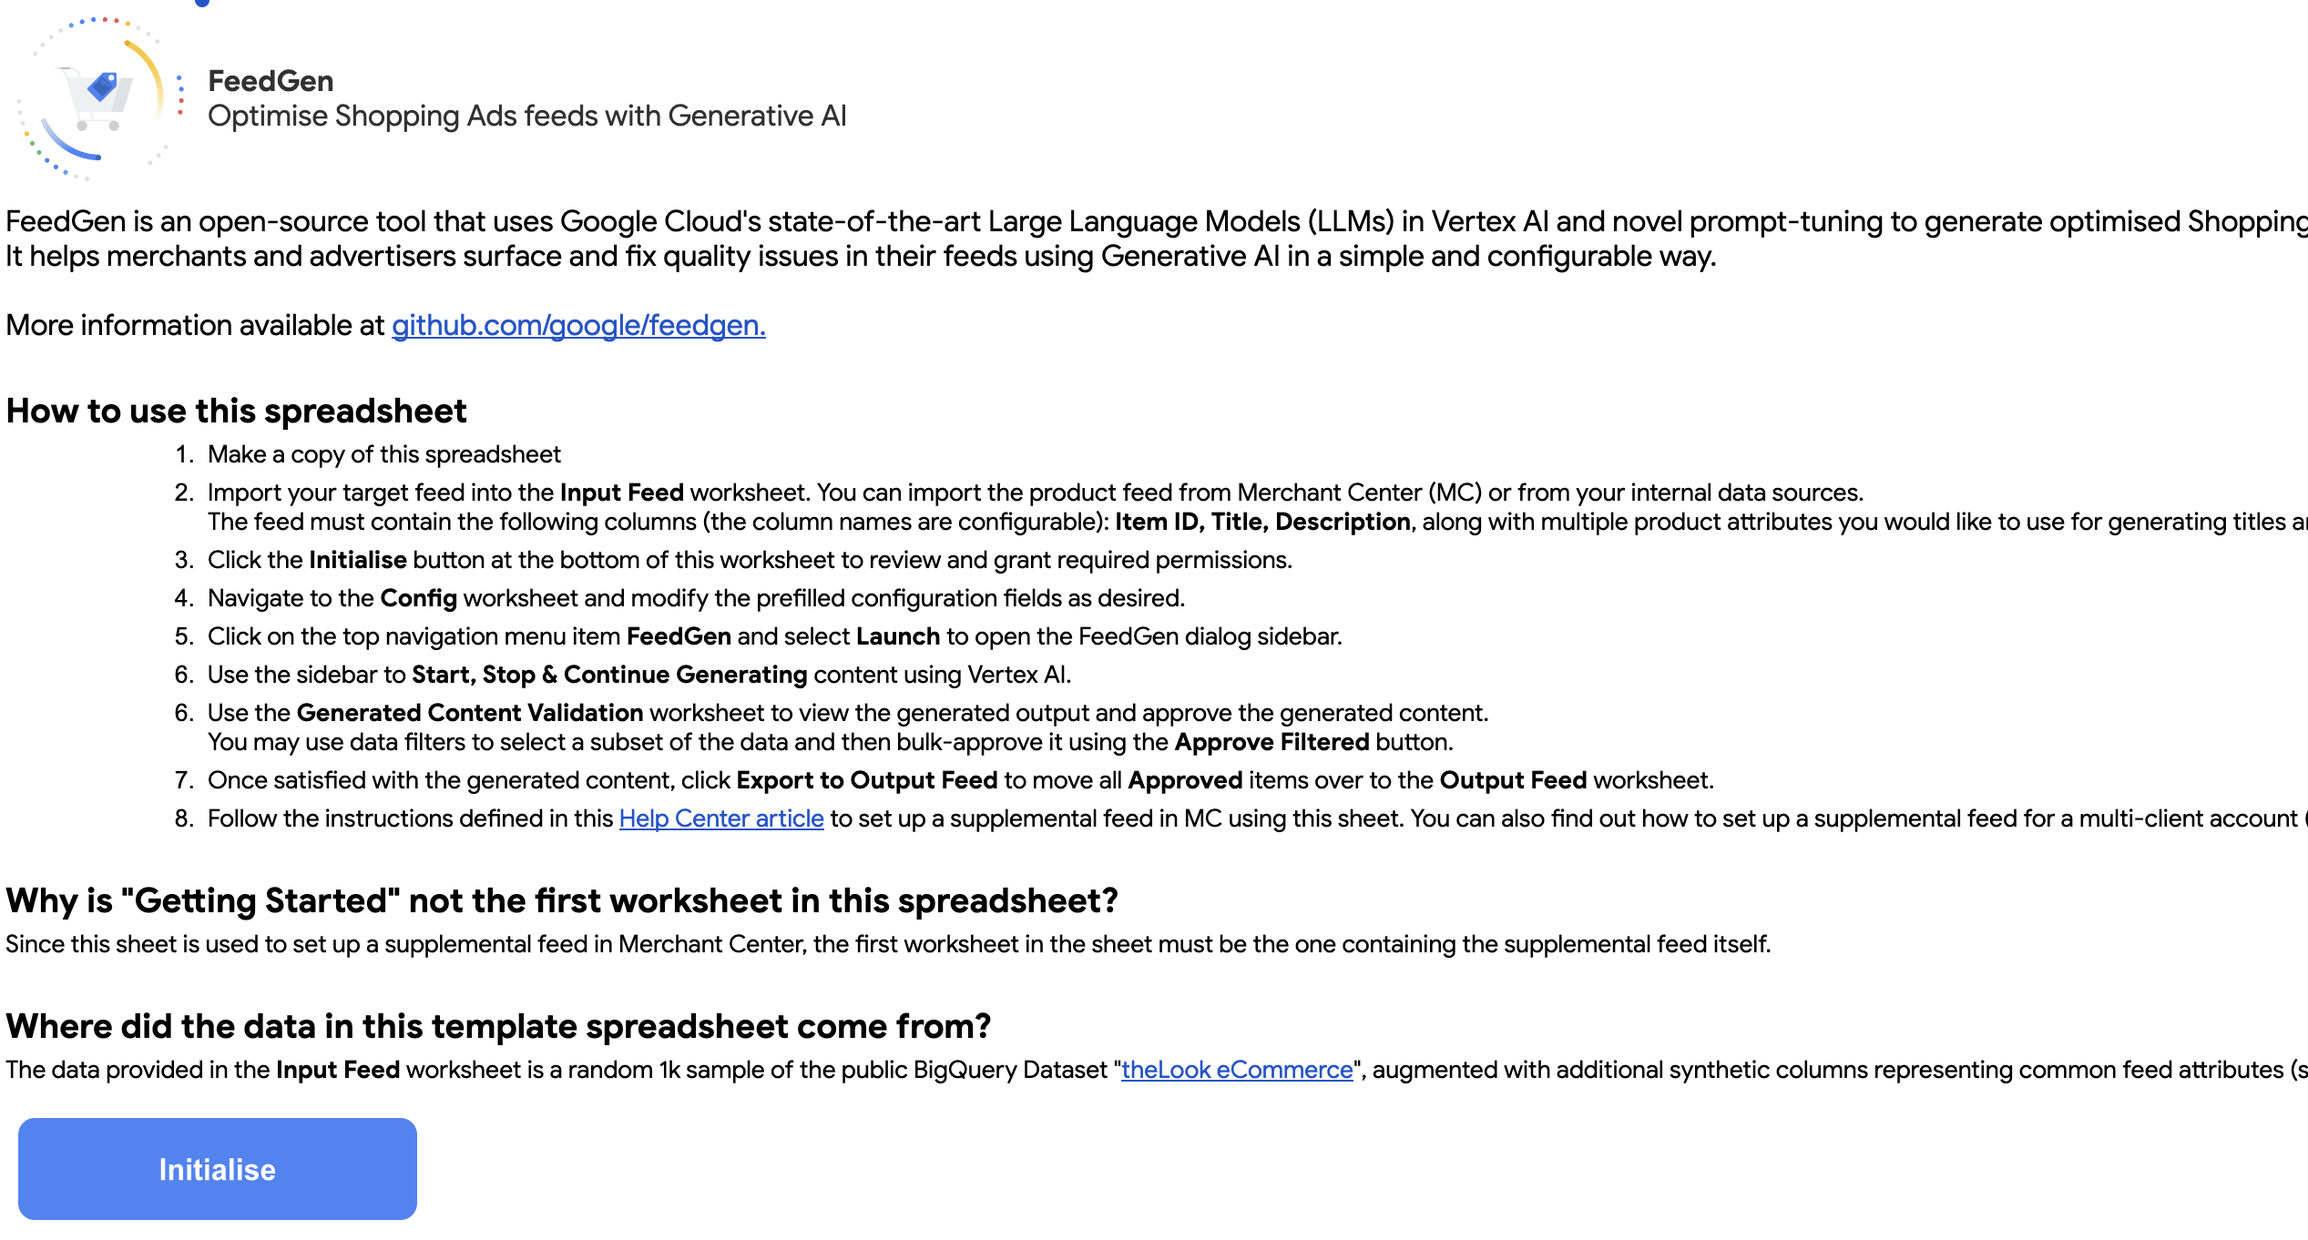
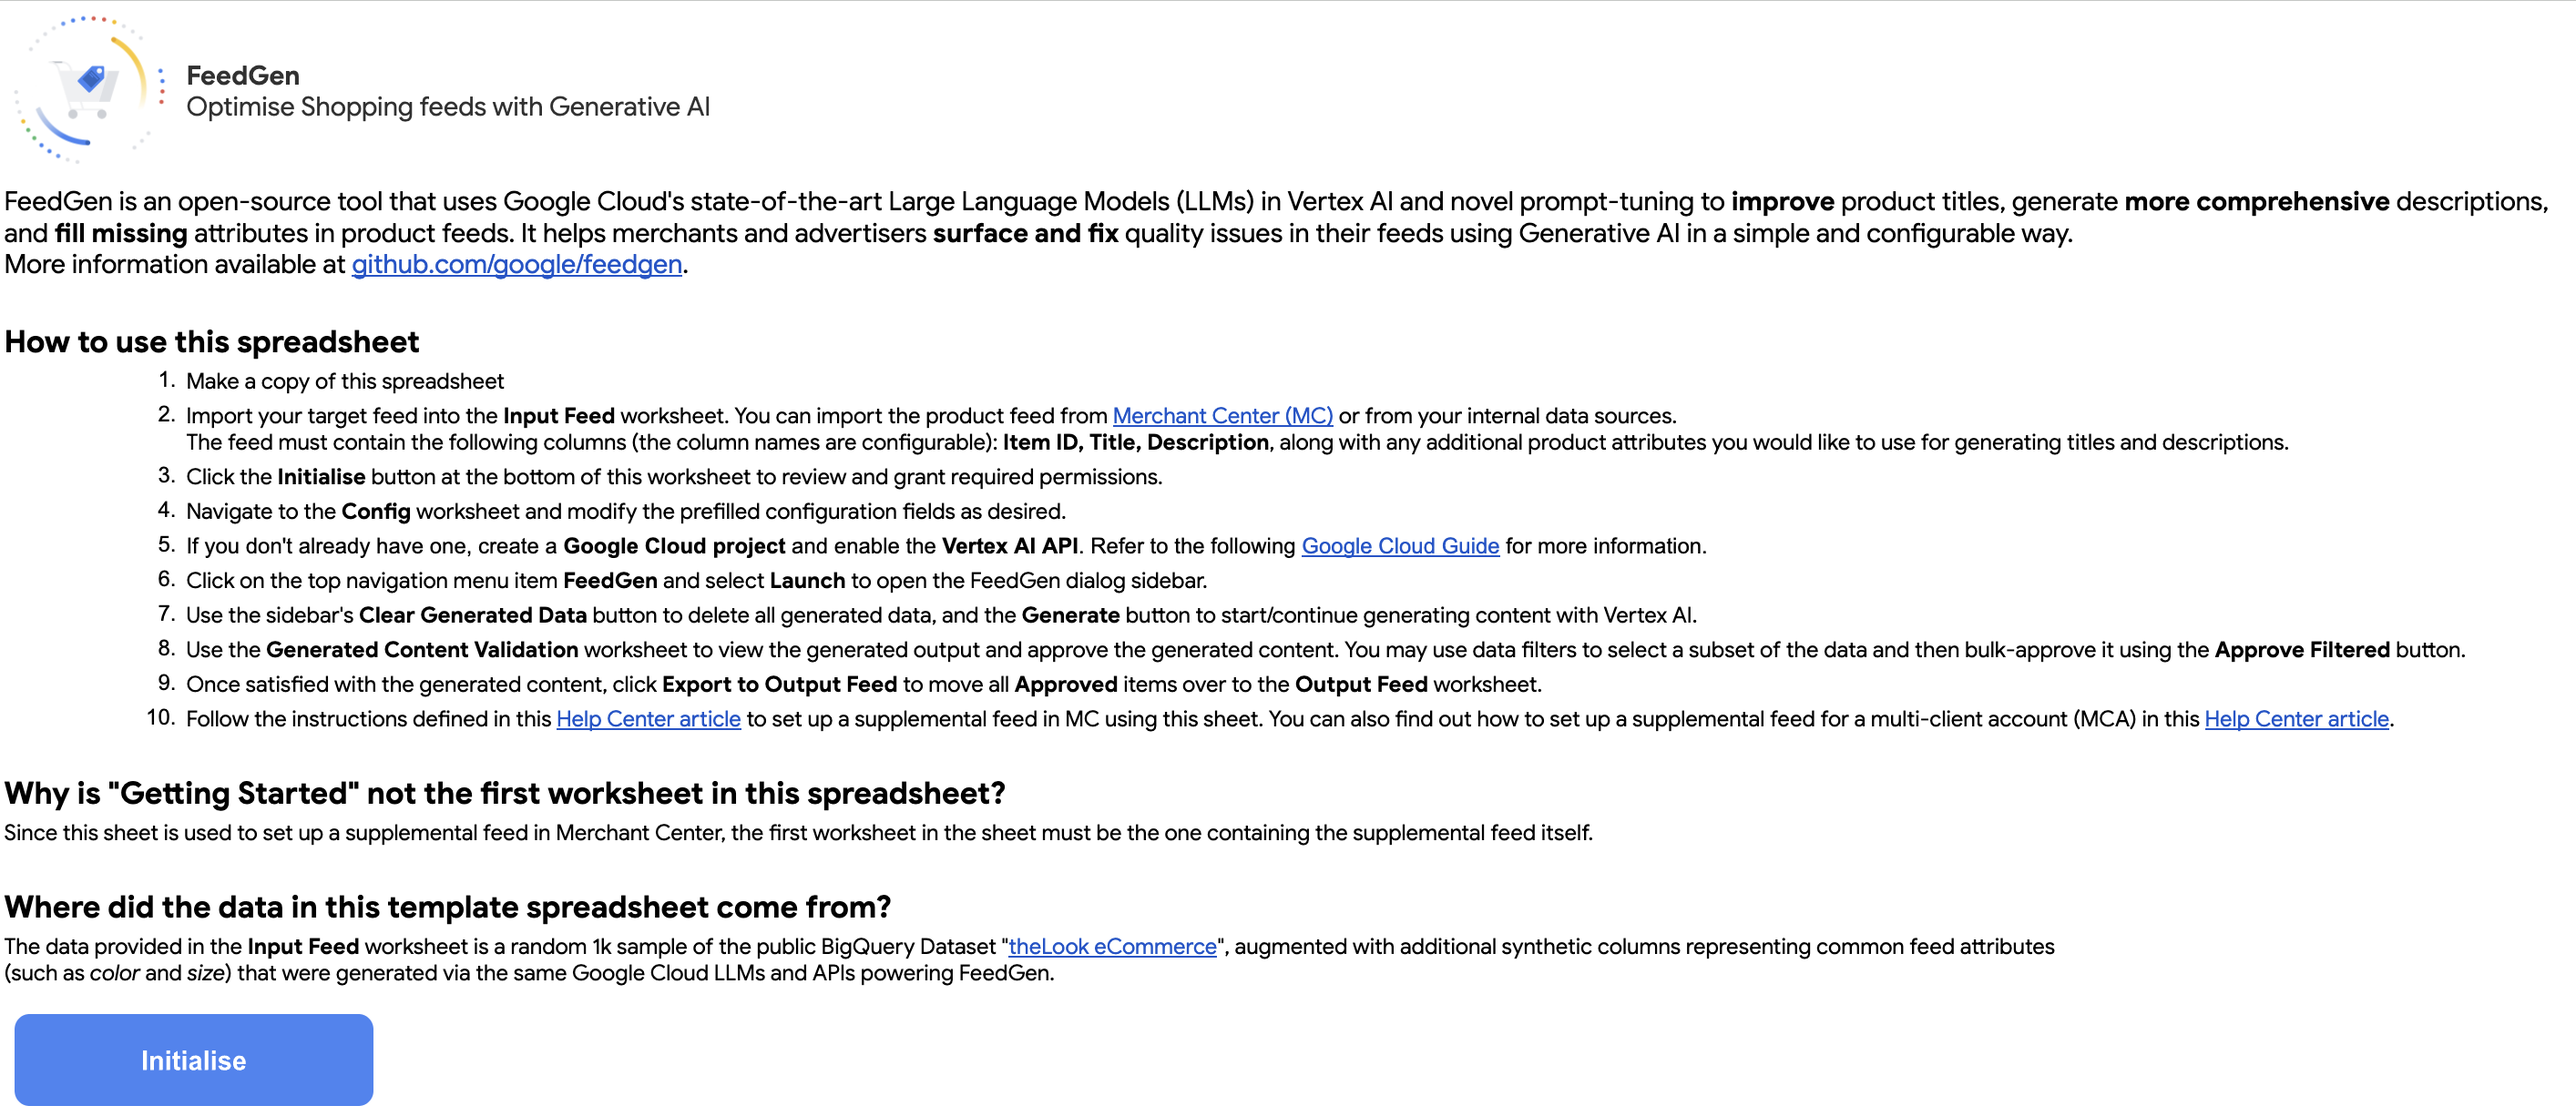
Update Shopping Ads references

Changed region(s): [[0.0, 0.155, 1.0, 0.7749], [0.0, 0.8059, 1.0, 0.9918], [0.0, 0.0, 0.3741, 0.124]]

diff --git a/README.md b/README.md
@@ -15,7 +15,7 @@ limitations under the License.
 -->
 <img align="left" width="150" src="https://services.google.com/fh/files/misc/feedgen_logo.png" alt="feedgen_logo" /><br>
 
-# FeedGen: Optimise Shopping Ads feeds with Generative AI
+# FeedGen: Optimise Shopping feeds with Generative AI
 
 [![GitHub last commit](https://img.shields.io/github/last-commit/google/feedgen)](https://github.com/google/feedgen/commits)
 [![Code Style: Google](https://img.shields.io/badge/code%20style-google-blueviolet.svg)](https://github.com/google/gts)
@@ -31,15 +31,15 @@ limitations under the License.
 ## Overview
 
 **FeedGen** is an open-source tool that uses Google Cloud's state-of-the-art
-Large Language Models (LLMs) to generate optimised Shopping Ads titles and
-descriptions, and fill missing attributes in product feeds. It helps merchants
-and advertisers surface and fix quality issues in their feeds using
-Generative AI in a simple and configurable way.
+Large Language Models (LLMs) to improve product titles, generate more
+comprehensive descriptions, and fill missing attributes in product feeds. It
+helps merchants and advertisers surface and fix quality issues in their feeds
+using Generative AI in a simple and configurable way.
 
 The tool relies on GCP's Vertex AI API to provide both zero-shot and few-shot
 inference capabilities on GCP's foundational LLMs. With
 [few-shot prompting](https://cloud.google.com/vertex-ai/docs/generative-ai/text/text-overview),
-you use the best 3-10 samples from your own Shopping Ads feeds to customise the
+you use the best 3-10 samples from your own Shopping feed to customise the
 model's responses towards your own data, thus achieving higher quality and more
 consistent output. This can be optimised further by fine-tuning the
 foundational models with your own proprietary data. Find out how to fine-tune
@@ -61,10 +61,10 @@ To get started with FeedGen:
 
 ## Challenges
 
-Optimising Shopping Ads feeds is a goal for every advertiser working with Google
-Merchant Center (MC) in order to improve query matching, click-through rates
-(CTR), and conversions. However, it is cumbersome to sift through product
-disapprovals in MC or manually fix quality issues.
+Optimising Shopping feeds is a goal for every advertiser working with Google
+Merchant Center (MC) in order to improve query matching, increase coverage,
+click-through rates (CTR), and conversions. However, it is cumbersome to sift
+through product disapprovals in MC or manually fix quality issues.
 
 FeedGen tackles this using Generative AI - allowing users to surface and fix
 quality issues, and fill attribute gaps in their feeds, in an automated fashion.
